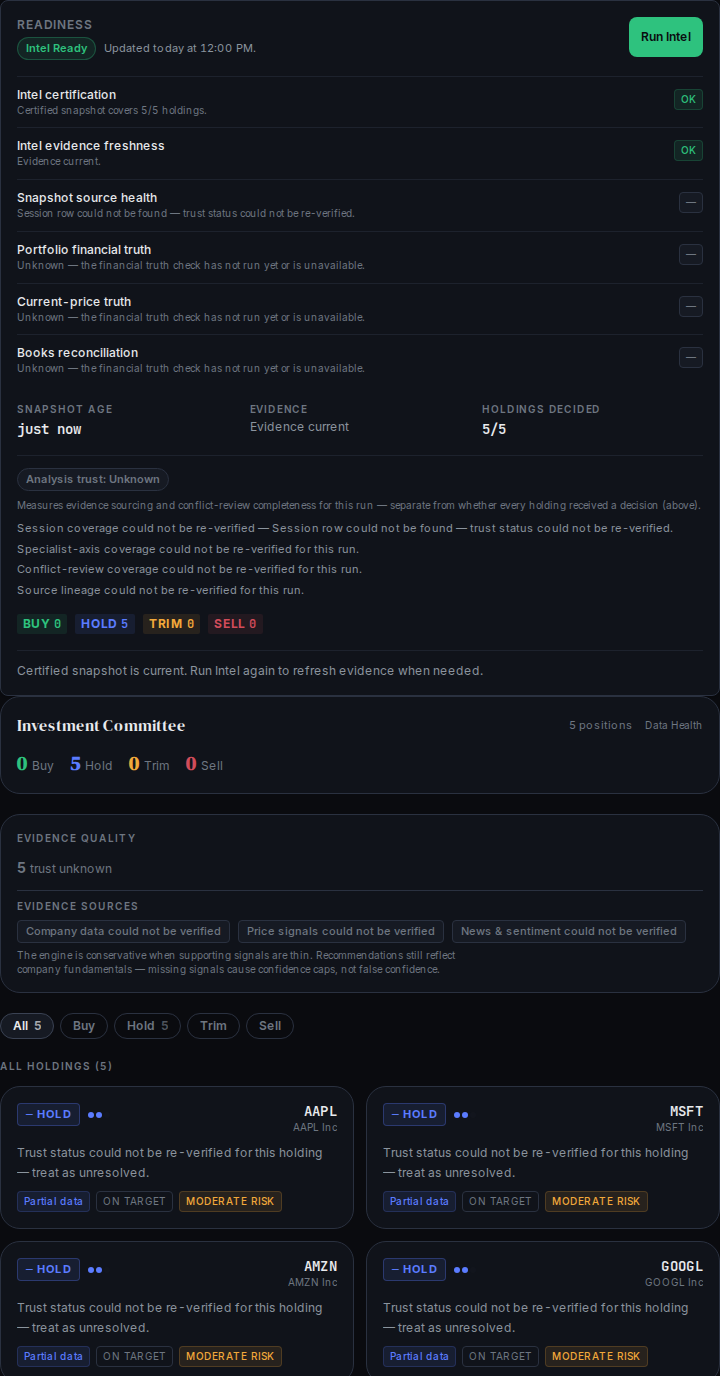
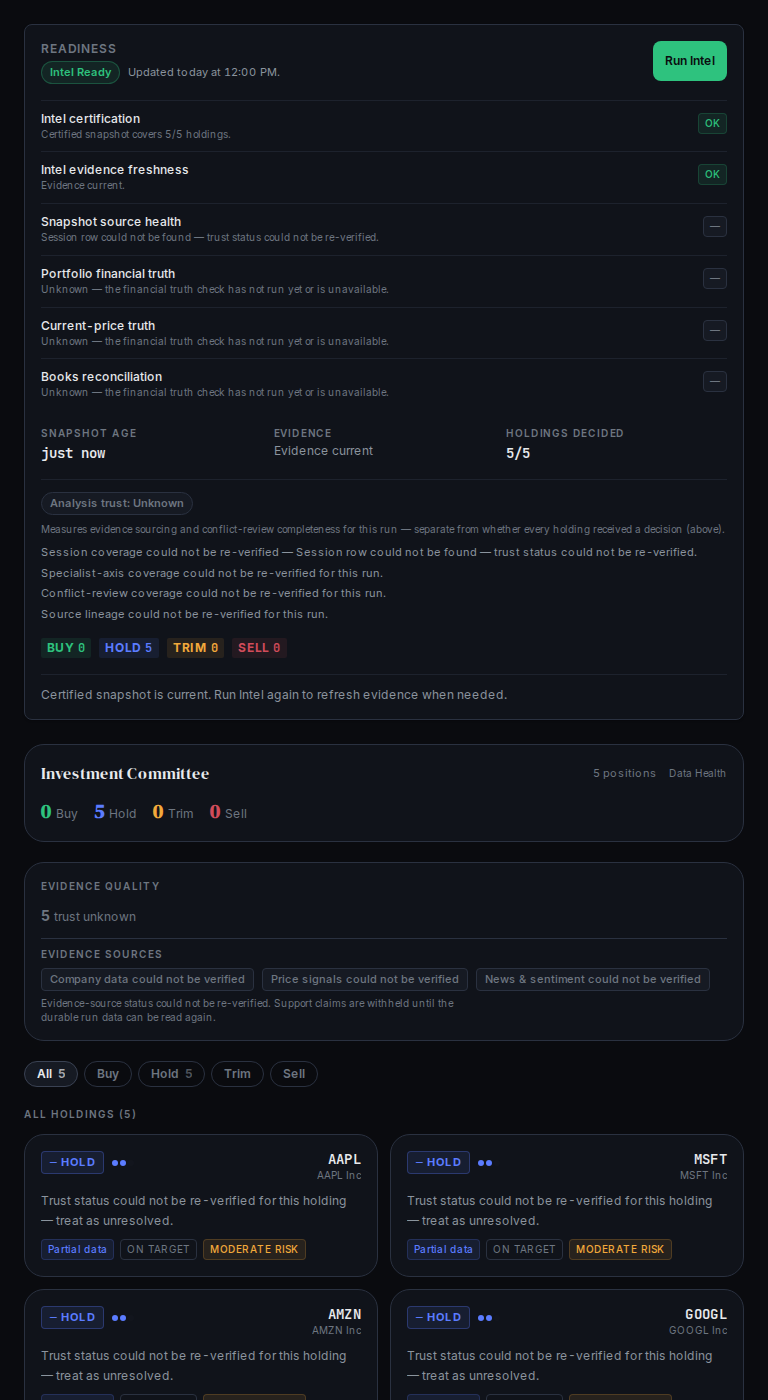
fix(intel-v3-distributed): stop claiming reverified thin-signal support during a fail-closed unknown read
Third release-blocker patch on PR #485 (frontend-only): EvidenceSummaryBand's
evidence-lane chips correctly said "could not be verified" when
trustUnknown=true, but the paragraph immediately below still unconditionally
claimed "supporting signals are thin" / "Recommendations still reflect
company fundamentals" / "missing signals cause confidence caps" — none of
which is known during a fail-closed read/reverification failure. Added an
explicit branch: the unknown case now renders "Evidence-source status could
not be re-verified. Support claims are withheld until the durable run data
can be read again." instead, with the established thin-signal copy
preserved exactly for the non-unknown case.

Claude-Session: https://claude.ai/code/session_01AdauzZGPbxd98sqEEozSZb

diff --git a/v2/frontend/src/components/advisor/IntelV3HoldingsPanel.render.test.tsx b/v2/frontend/src/components/advisor/IntelV3HoldingsPanel.render.test.tsx
@@ -1,0 +1,165 @@
+/**
+ * @jest-environment jsdom
+ *
+ * Render-level proof for EvidenceSummaryBand's fail-closed "unknown" copy.
+ *
+ * Release-blocker requirement: when run_trust_contract.overall_status is
+ * "unknown" (a read/reverification failure), the evidence-lane explanation
+ * paragraph must NEVER reuse the established-thin-signal copy — we do not
+ * know signals are merely thin, that fundamentals were reverified, or that
+ * the only impact is a confidence cap. It must instead render an honest,
+ * conservative "could not be re-verified" explanation.
+ */
+
+import React from "react";
+import { act } from "react-dom/test-utils";
+import { createRoot, Root } from "react-dom/client";
+
+// IntelV3HoldingsPanel pulls in DataHealthDrawer -> hooks.ts -> api.ts ->
+// supabase.ts, which eagerly calls createClient() at module load and
+// throws without real Supabase env vars. This render test only needs the
+// pure UI output, not a live client — mock the leaf module (jest.mock is
+// hoisted above the imports below by ts-jest).
+jest.mock("@/lib/supabase", () => ({ supabase: {} }));
+
+import { IntelV3HoldingsPanel } from "./IntelV3HoldingsPanel";
+import type { IntelV3HeldCard, IntelV3Snapshot } from "@/lib/api";
+
+(globalThis as Record<string, unknown>).IS_REACT_ACT_ENVIRONMENT = true;
+
+function unknownCard(ticker: string): IntelV3HeldCard {
+  return {
+    ticker,
+    name: `${ticker} Inc`,
+    asset_type: "equity",
+    action: "HOLD",
+    conviction: "MEDIUM",
+    evidence_band: "PARTIAL",
+    portfolio_fit: "ON_TARGET",
+    risk_level: "MODERATE",
+    thesis_state: "active",
+    why_text: "Trust status could not be re-verified for this holding — treat as unresolved.",
+    risk_text: "",
+    action_text: "Trust status could not be re-verified for this holding — treat as unresolved.",
+    what_would_change_view: "",
+    fit_text: "",
+    evidence_text: "",
+    flags: [],
+    source_snapshot_id: "snap-unknown",
+    source_run_id: "sess-unknown",
+    updated_at: "2026-07-24T00:00:00Z",
+    detail_drawer_payload: {
+      rationale: "Trust status could not be re-verified for this holding — treat as unresolved.",
+      why_now: "", why_not_now: "",
+      evidence_band: "PARTIAL", evidence_quality: "OK", attractiveness: "OK",
+      price_context: "SUPPRESSED", portfolio_fit_raw: "ON_TARGET", risk_band: "MODERATE",
+      blockers: [], suppression_reasons: {}, schema_version: "v3.1",
+      committee: { status: "pending" },
+      evidence_explanation: {
+        primary_evidence_status: "READY", technical_signals_status: "READY", sentiment_status: "READY",
+        conviction_cap_applied: false, conviction_cap_reason: "", safe_for_visible_decision: true,
+        safe_for_visible_decision_reason: "", governance_priority: "", corroboration_gap: false, action_blocks: [],
+      },
+      source_lineage: { status: "unknown", has_source_refs: false },
+      conflict_review_status: "unknown",
+      decision_constraints: [],
+      trust_status: "unknown",
+      decision_bands: { evidence_quality: "OK", price_context: "SUPPRESSED", portfolio_fit: "ON_TARGET", risk_band: "MODERATE", attractiveness: "OK" },
+      asset_intelligence_context: null,
+    },
+  } as unknown as IntelV3HeldCard;
+}
+
+function makeUnknownSnapshot(): IntelV3Snapshot {
+  const reason = "Session row could not be found — trust status could not be re-verified.";
+  const cards = [unknownCard("AAPL"), unknownCard("MSFT")];
+  return {
+    schema_version: "v3.1", snapshot_id: "snap-unknown", run_id: "sess-unknown",
+    generated_at: "2026-07-24T00:00:00Z", is_stale: false,
+    source_health: { status: "unknown", reason },
+    portfolio_command_center: {
+      total_holdings: 2, buy_count: 0, hold_count: 2, trim_count: 0, sell_count: 0,
+      high_conviction: 0, thin_evidence: 0, source_health: { status: "unknown", reason },
+    },
+    action_counts: { BUY: 0, HOLD: 2, TRIM: 0, SELL: 0 },
+    evidence_band_counts: { THIN: 0, PARTIAL: 2, STRONG: 0 },
+    conviction_counts: { LOW: 0, MEDIUM: 2, HIGH: 0 },
+    source_pack_validated_count: 0, source_pack_pending_count: 2,
+    best_buys: [], trim_sell_desk: [], current_holdings: cards,
+    opportunity_radar_preview: { status: "deferred" },
+    what_changed: [], warnings: [reason], legacy_path_used: false,
+    session_status: "completed",
+    session_coverage: {
+      frozen_holding_count: 2, decided_count: 2, no_call_count: 0, failed_count: 0,
+      no_call_tickers: [], failed_tickers: [], gaps: [],
+    },
+    run_trust_contract: {
+      schema_version: "run_trust_contract_v1",
+      run_session_id: "sess-unknown",
+      generated_at: "2026-07-24T00:00:00Z",
+      overall_status: "unknown",
+      session_coverage: {
+        frozen_holding_count: 0, decided_count: 0, no_call_count: 0,
+        failed_count: 0, unaccounted_count: 0, publication_complete: false,
+      },
+      axis_coverage: {},
+      conflict_review_coverage: {
+        required_count: 0, succeeded_count: 0, failed_count: 0, pending_count: 0,
+        required_tickers: [], succeeded_tickers: [], failed_tickers: [], pending_tickers: [],
+      },
+      source_lineage: {
+        outputs_with_source_refs: 0, outputs_missing_source_refs: 0,
+        tickers_with_lineage: [], tickers_missing_lineage: [],
+        tickers_full_lineage: [], tickers_partial_lineage: [], tickers_missing_lineage_full: [],
+      },
+      source_health: { status: "unknown", reason },
+      ticker_trust: [],
+      blocking_reasons: [reason],
+      warnings: [reason],
+    },
+    evidence_freshness_state: "certified_current",
+  } as unknown as IntelV3Snapshot;
+}
+
+let container: HTMLDivElement;
+let root: Root;
+
+beforeEach(() => {
+  container = document.createElement("div");
+  document.body.appendChild(container);
+  root = createRoot(container);
+});
+
+afterEach(() => {
+  act(() => root.unmount());
+  container.remove();
+});
+
+describe("IntelV3HoldingsPanel — EvidenceSummaryBand fail-closed unknown copy", () => {
+  it("renders truthful unknown copy, never the established thin-signal explanation", () => {
+    act(() => {
+      root.render(
+        <IntelV3HoldingsPanel snapshot={makeUnknownSnapshot()} isLoading={false} noSnapshot={false} />,
+      );
+    });
+    const text = container.textContent ?? "";
+
+    // Three evidence chips say "could not be verified".
+    expect(text).toContain("Company data could not be verified");
+    expect(text).toContain("Price signals could not be verified");
+    expect(text).toContain("News & sentiment could not be verified");
+
+    // Distinct trust-unknown count.
+    expect(text).toContain("trust unknown");
+
+    // The new fail-closed explanation.
+    expect(text).toContain("Evidence-source status could not be re-verified");
+    expect(text).toContain("Support claims are withheld until the durable run data can be read again");
+
+    // The established-thin-signal copy must be completely absent.
+    expect(text).not.toContain("supporting signals are thin");
+    expect(text).not.toContain("Recommendations still reflect company fundamentals");
+    expect(text).not.toContain("missing signals cause confidence caps");
+    expect(text.toLowerCase()).not.toContain("not applicable");
+  });
+});

diff --git a/v2/frontend/src/components/advisor/IntelV3HoldingsPanel.tsx b/v2/frontend/src/components/advisor/IntelV3HoldingsPanel.tsx
@@ -322,12 +322,23 @@ function EvidenceSummaryBand({
             {sentiment.label}
           </span>
         </div>
-        {(!technicalUsable || !sentimentUsable) && (
+        {trustUnknown ? (
+          // Fail-closed read/reverification failure — we do NOT know that
+          // signals are merely thin, that fundamentals were reverified, or
+          // that the only impact is a confidence cap. Never reuse the
+          // established-thin-signal copy below for this state.
           <p className="text-[10px] text-text-muted leading-snug max-w-md">
-            The engine is conservative when supporting signals are thin. Recommendations
-            still reflect company fundamentals — missing signals cause confidence caps,
-            not false confidence.
+            Evidence-source status could not be re-verified. Support claims
+            are withheld until the durable run data can be read again.
           </p>
+        ) : (
+          (!technicalUsable || !sentimentUsable) && (
+            <p className="text-[10px] text-text-muted leading-snug max-w-md">
+              The engine is conservative when supporting signals are thin. Recommendations
+              still reflect company fundamentals — missing signals cause confidence caps,
+              not false confidence.
+            </p>
+          )
         )}
       </div>
     </div>

diff --git a/docs/ai/USAGE_LEDGER.md b/docs/ai/USAGE_LEDGER.md
@@ -280,3 +280,4 @@ Use this ledger plus GitHub PR history to diagnose token burn:
 | 2026-07-23 | #485 | p01 | initial | n/a | backend/intel-v3-distributed,frontend/advisor-ui,docs/run-intel-contract | unavailable — remote GitHub-task session | claude-sonnet-5 | new-chat | manual | unavailable | unavailable | unavailable | unavailable | unavailable | unavailable | unavailable | unavailable | unavailable | unavailable | unavailable | unavailable | none | Run Intel trust contract, PR 1/7 of the locked trust-recovery sequence (production session a51e977b-561a-4e98-baa8-59ad56a877ff: 31/31 decided but 0 evidence bundles/specialist outputs carried a source reference, 5/7 required conflict reviews failed invisibly, research_axis_readiness={} mislabeled 31/31 successful technical and 31/31 successful sentiment outputs as unusable, every nonempty decision blocker rendered as generic "Evidence blocked"). New pure projection run_trust_contract_v1.py (session/axis/conflict-review/source-lineage coverage + deterministic, non-exclusive decision-constraint classifier: evidence_quality/source_lineage/price_context/portfolio_policy/risk/conflict_review/other) integrated identically into session-native publication (persisted) and a non-mutating read-time enrichment of pre-existing snapshots keyed off run_session_id (zero provider/LLM calls); research_axis_readiness={} placeholder replaced with real per-axis readiness; snapshot_builder._build_source_pack_status now requires real lineage + a non-failed conflict review before "source_validated" when lineage info is available (distributed sessions), legacy evidence-band-only behavior preserved for callers without it. Frontend: independent "Analysis trust" status + session/axis/conflict-review/source-lineage summary lines on AdvisorReadinessPanel (separate from the renamed "Holdings decided" metric); IntelV3Drawer gained a "What's limiting this holding" section listing each constraint category separately (never conflated, e.g. BLSH shows both portfolio_policy AND conflict_review); IntelV3HoldingsPanel's evidence band now shows authoritative axis_coverage counts; buildSafetyDisplay no longer treats every nonempty blocker as "Evidence blocked" — only an actual evidence_quality constraint is. Financial truth rows unchanged (still sourced only from the existing /api/advisor/readiness endpoint). 53 new focused tests (test_run_trust_contract_v1.py, test_run_trust_contract_integration.py, plus additions to 3 frontend test files) proving the production-shaped fixture (31 holdings, 5 failed reviews, zero source refs) yields overall_status=blocked despite full session coverage, AMD/TSM classified price-context-limited not evidence-blocked, NVDA portfolio-policy-constrained not evidence-blocked, BLSH carrying two distinct categories, and NOT_APPLICABLE axes never counted as failures; full backend suite 8521 passed/0 failed; full frontend jest 639 passed/0 failed; tsc clean; next build green; AI PR readiness + repo hygiene audit pass. No SQL. | 0 | when a shared snapshot-builder function (_build_source_pack_status) is reused by both a legacy path with no lineage data and a new path that has it, thread lineage as an explicit optional parameter defaulting to the old behavior — this lets the new path enforce a stricter truth rule without silently changing what the legacy path has always shown |
 | 2026-07-23 | #485 | p02 | follow-up | #485 | backend/intel-v3-distributed,frontend/advisor-ui,docs/run-intel-contract | unavailable — remote GitHub-task session | claude-sonnet-5 | same-chat | manual | unavailable | unavailable | unavailable | unavailable | unavailable | unavailable | unavailable | unavailable | unavailable | unavailable | unavailable | unavailable | necessary-follow-up | Release-blocker patch on open PR #485 (explicit user-directed trust-semantics correction, seven categories, single patch): the initial contract still allowed false healthy/source-validated states. run_trust_contract_v1.py rewritten: axis coverage now splits required vs. optional per REQUIRED_AXES_BY_ASSET/OPTIONAL_AXES_BY_ASSET, and a valid persisted output (score+confidence both present) is the only proof of success — a terminal SUCCEEDED/DEGRADED task without one now counts as failed, never succeeded; conflict-review status requires BOTH a successful terminal review task AND a valid persisted axis=review output (TASK_DEGRADED never counts as success), with not_required/succeeded/failed/pending states, failed and pending both blocking is_source_validated; source lineage recomputed as full/partial/missing over every output that actually feeds aggregate_advisory_signal() (including the review axis), not one arbitrary axis; decision-constraint classifier no longer treats UNDERWEIGHT as a portfolio-policy limitation, distinguishes SUPPRESSED (unconfirmed) from assessed FULL/EXPENSIVE price-context states, and preserves an "other" category for any real persisted blocker text not matching a known category; new per-ticker trust_status (healthy/limited/blocked/unknown) feeds a corrected overall_status truth table (blocked on any required-axis/review/lineage gap, limited only for optional gaps or partial lineage, healthy only when everything required passes); fail-closed _apply_unknown_trust_overlay() added to intel_v3_service.py so a historical snapshot enrichment that can't read its session/tickers/tasks (missing rows, empty read, or a raised exception) now emits an explicit unknown/pending overlay instead of ever preserving a stale optimistic source_validated/committee status. Frontend: buildPortfolioEvidenceSummary now routes portfolio "better supported/evidence limited/data issues" counts through the same backend trust_status first (falling back to the old per-card heuristic only for legacy non-distributed cards) so the Advisor summary, holding cards, and drawer agree on one backend trust state; sourceLineageToLabel/conflictReviewStatusToLabel gained explicit full/partial/missing/unknown and not_required/succeeded/failed/pending/unknown copy (never a bare dash, never a false "not required" claim on unknown); priceContextDisplay differentiates SUPPRESSED from FULL/EXPENSIVE instead of one generic "isn't confirmed" line; "other" constraint category is now displayed instead of silently dropped. 40 rewritten unit tests + 11 integration tests (incl. 4 new fail-closed tests: missing session row, missing ticker rows, empty task read, raised read failure) plus updated frontend fixtures/tests across advisor-readiness/intel-v3-explanation/intel-v3-evidence; full backend suite and full frontend jest re-run green; tsc clean. No SQL, no reference generation (still owned by PR 2), no provider/decision-threshold/Deploy Cash changes, no new PR opened — patched the existing PR #485 per explicit instruction. | 0 | a pure trust projection must derive "success" strictly from the presence of a valid persisted output, never from a task's terminal status alone — SUCCEEDED/DEGRADED without an output looks identical to a healthy state unless the projection explicitly checks for the output it claims proves |
 | 2026-07-24 | #485 | p03 | follow-up | #485 | backend/intel-v3-distributed,frontend/advisor-ui | unavailable — remote GitHub-task session | claude-sonnet-5 | same-chat | manual | unavailable | unavailable | unavailable | unavailable | unavailable | unavailable | unavailable | unavailable | unavailable | unavailable | unavailable | unavailable | necessary-follow-up | Second, final release-blocker patch on open PR #485 (explicit user-directed correction, two categories): (1) classify_decision_constraints() dropped its `if not categories: categories.add(CONSTRAINT_OTHER)` fallback — CONSTRAINT_OTHER is now added ONLY by the blocker-text-parsing loop when a REAL persisted blocker doesn't match a known category, so a fully clean, fully sourced, fully healthy decision now correctly returns decision_constraints=[] instead of a fabricated "other" limitation; IntelV3Drawer's "What's limiting this holding" section and buildSafetyDisplay already handled an empty category list correctly (verified, not changed) — new tests prove the clean-healthy case, the UNDERWEIGHT-clean case, and an isolated real-blocker-adds-only-other case. (2) The fail-closed "unknown" trust overlay's UI was not truthful: run_trust_contract_v1 gained an optional source_health.reason field (both build_run_trust_contract's zero-valid-outputs branch and unknown_overlay_contract's read-failure branch now carry distinct, plain-English reasons — same status="unknown" but different meanings, never conflated); deriveRunTrustSummary now branches on overall_status="unknown" to render "could not be re-verified" for session/axis/conflict-review/source-lineage lines instead of false claims derived from the contract's zero/empty placeholder fields ("0 of 0 holdings decided", "no conflict reviews were required", "no specialist axes applied", "no specialist outputs recorded"); deriveSnapshotSourceHealthRow uses the backend reason instead of a hardcoded zero-outputs guess; buildPortfolioEvidenceSummary gained a distinct unknownCount bucket (never folded into blockedCount, and the stale evidence_explanation payload the overlay intentionally leaves untouched for audit is no longer counted toward usable-signal counts); EvidenceSummaryBand renders a new "trust unknown" chip plus "could not be verified" wording for price/sentiment/company-data chips (never "not applicable" or a reused optimistic value) when the session's trust is unknown. 5 new backend tests (2 in test_run_trust_contract_v1.py, assertions added to all 4 fail-closed tests in test_run_trust_contract_integration.py) + 20 new frontend tests (advisor-readiness.ts unknown-branch + source-health-reason coverage, intel-v3-explanation.ts unknownCount + empty-constraints coverage, a new IntelV3Drawer.render.test.tsx, and an unknown-overlay render case added to AdvisorReadinessPanel.render.test.tsx); full backend suite 8551 passed/0 failed; full frontend jest 660 passed/0 failed; tsc clean; next build green; 2 new fixture screenshots (fail-closed unknown summary/evidence band; fully healthy holding with no limiting section) captured via the real components and committed. No SQL, no new PR opened — patched the existing PR #485 per explicit instruction. | 0 | a status enum value can carry two genuinely different meanings (here: "unknown" = zero real data vs. "unknown" = couldn't check) — collapsing both into one string forces the UI to either guess or lie; carry a distinguishing reason alongside the status from the moment the ambiguity is created, not patched in later at the display layer |
+| 2026-07-24 | #485 | p04 | follow-up | #485 | frontend/advisor-ui | unavailable — remote GitHub-task session | claude-sonnet-5 | same-chat | manual | unavailable | unavailable | unavailable | unavailable | unavailable | unavailable | unavailable | unavailable | unavailable | unavailable | unavailable | unavailable | necessary-follow-up | Third, final UI-truth patch on open PR #485 (explicit user-directed correction, single frontend-only category, no backend change): IntelV3HoldingsPanel.tsx's EvidenceSummaryBand correctly rendered "could not be verified" chips and a distinct trust-unknown count when trustUnknown=true (round 2), but the explanatory paragraph directly below still unconditionally rendered the established "The engine is conservative when supporting signals are thin. Recommendations still reflect company fundamentals — missing signals cause confidence caps, not false confidence." text — a claim that is not valid for a fail-closed read/reverification failure, where none of "signals are merely thin", "fundamentals were reverified", or "impact is only a confidence cap" is actually known. Fixed with an explicit branch: trustUnknown=true now renders "Evidence-source status could not be re-verified. Support claims are withheld until the durable run data can be read again." instead, mentioning no thin signals/verified fundamentals/confidence caps/recommendation support; the established paragraph is preserved byte-for-byte for the non-unknown thin/missing-signal case. New IntelV3HoldingsPanel.render.test.tsx (1 test, jsdom, real DOM render via createRoot — mocks only the leaf @/lib/supabase module since IntelV3HoldingsPanel transitively imports DataHealthDrawer -> hooks.ts -> api.ts -> supabase.ts, which eagerly calls createClient() at module load and throws without real env vars) proves: all three evidence chips read "could not be verified"; the distinct "trust unknown" count renders; the new fail-closed explanation text renders; and the four forbidden phrases ("supporting signals are thin", "Recommendations still reflect company fundamentals", "missing signals cause confidence caps", "not applicable") are completely absent. Screenshot 08 (fail-closed unknown summary/evidence band) regenerated against the corrected paragraph via the same fixture/temp-route/Playwright approach as prior rounds, temp route deleted before this diff (confirmed absent from next build output and git status). Full frontend jest 661 passed/0 failed (up from 660); tsc clean; next build green; AI PR readiness pass-with-known-gaps (same size-driven warnings); repo hygiene 22 pre-existing findings, 0 new. No backend/Python file touched — verified via git diff file list before commit. No SQL, no new PR opened. | 0 | when a UI branch is fixed for one summary bucket (evidence-lane chips), audit every OTHER copy block gated by the same boolean flag on the same component — an unconditional explanatory paragraph sitting right below correctly-branched chips is exactly the kind of leftover a partial fix leaves behind |
